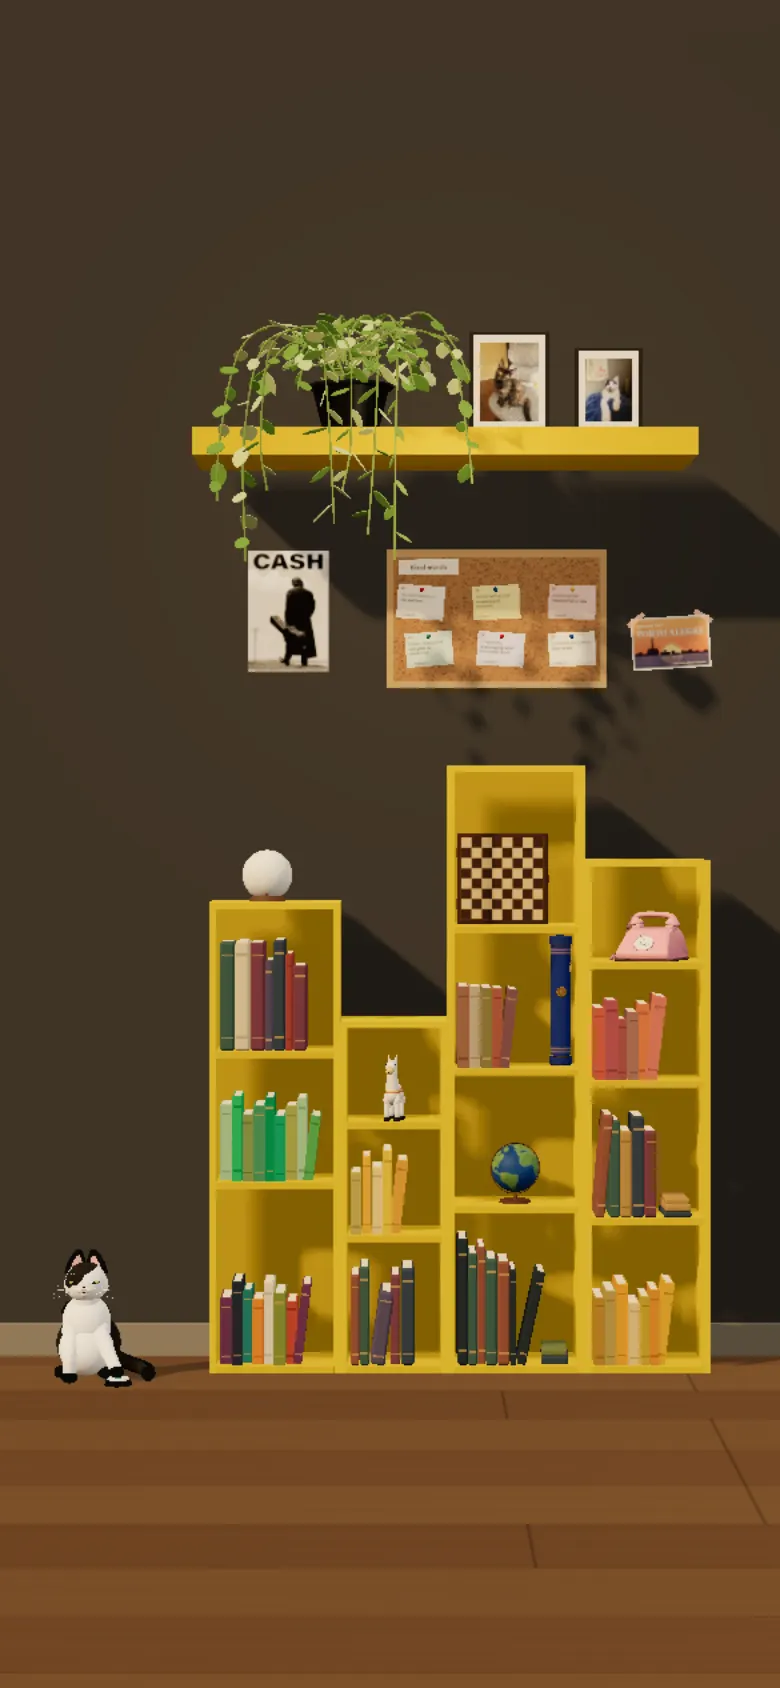
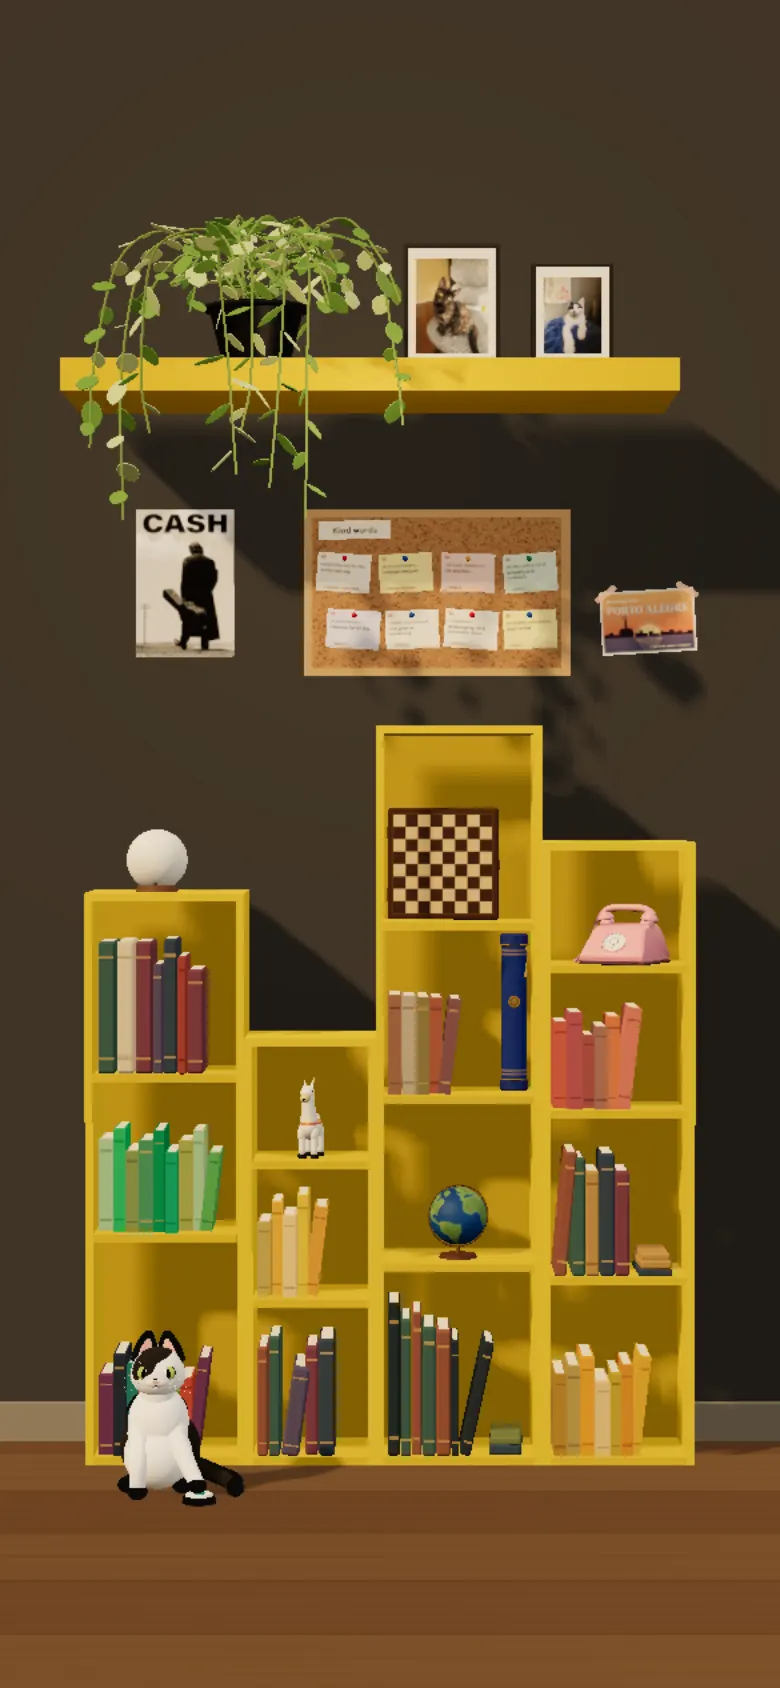
Phones: Zuko sits in front of the bookcase and the room is drawn larger
On portrait screens Zuko moves from beside the bookcase to its bottom-left corner, the wall shelf sits closer above
the bookcase, and the fit leaves room for the title bar and the bottom hint, so the room fills more of the screen
without running under them. Desktop is unchanged.

diff --git a/src/scene/officeScene.ts b/src/scene/officeScene.ts
@@ -38,6 +38,8 @@ const TOUCH_REACH = 24;
 /** The key light's shadow frustum for the desktop layout. Portrait widens it (see wide() in applyView)
  *  while the wall shelf sits above the bookcase, then this is restored the moment desktop returns. */
 const SHADOW_HOME = { left: -3.2, right: 3.8, top: 4.2, bottom: -1.2 };
+/** Portrait: the share of the screen's height the room may fill, between the title bar and the bottom hint. */
+const PORTRAIT_CLEAR_HEIGHT = 0.8;
 /** Desktop camera distance from the wall: close enough that the room fills the window, with its full height in view. */
 const DESK_DIST = 7.5;
 /** Room to leave on each side of the shelf and bookcase on desktop, in scene units. */
@@ -308,6 +310,10 @@ export class OfficeScene {
   private wallHomeBox: THREE.Box3 | null = null;
   /** Zuko's box, world space; folded into the portrait fit too (desktop already shows him fine). */
   private catBox: THREE.Box3 | null = null;
+  private cat: THREE.Object3D | null = null;
+  private catHome = new THREE.Vector3();
+  /** Portrait only: Zuko moves from beside the bookcase to sitting in front of its bottom-left corner. */
+  private catDelta = new THREE.Vector3();
   private plantSway: PlantSway | null = null;
   private zukoLife: ZukoLife | null = null;
   /** Off in desktop. The key light is tuned for the wall shelf's normal height, near the light's own
@@ -671,7 +677,7 @@ export class OfficeScene {
     // meshBox (not THREE.Box3.setFromObject) so each object's own position is folded in correctly.
     this.bookBox = meshBox(model);
     this.wallHomeBox = meshBox(wallShelf).union(meshBox(posters));
-    const wallGap = 0.4; // clearance between the bookcase's top and the relocated wall shelf
+    const wallGap = 0.22; // clearance between the bookcase's top and the relocated wall shelf
     this.wallDelta.set(
       (this.bookBox.min.x + this.bookBox.max.x) / 2 - (this.wallHomeBox.min.x + this.wallHomeBox.max.x) / 2,
       this.bookBox.max.y + wallGap - this.wallHomeBox.min.y,
@@ -785,6 +791,11 @@ export class OfficeScene {
         cat.updateWorldMatrix(true, true);
         catMeshes = collectMeshes(cat);
         this.catBox = meshBox(cat);
+        this.cat = cat;
+        this.catHome.copy(cat.position);
+        // On a phone the room is framed by its width: sitting beside the bookcase, he would widen it and push the
+        // camera back. In front of its first column he keeps the room narrow, so everything is drawn larger.
+        this.catDelta.set(shelfWorld.min.x + 0.42 - targetX, 0, 0.32);
       } catch (e) {
         console.warn("[office-scene] could not place Zuko", e);
         scene.remove(cat);
@@ -1360,6 +1371,7 @@ export class OfficeScene {
         // desktop: the original layout and camera height, untouched by anything portrait does, centred on the room.
         this.wallShelf?.position.copy(this.wallHomeShelf);
         this.posters?.position.copy(this.wallHomePosters);
+        this.cat?.position.copy(this.catHome);
         if (this.wallLight) this.wallLight.intensity = 0;
         if (shadowCam && shadowCam.top !== SHADOW_HOME.top) {
           Object.assign(shadowCam, SHADOW_HOME);
@@ -1381,6 +1393,7 @@ export class OfficeScene {
       // more distance, centred on it.
       this.wallShelf?.position.copy(this.wallHomeShelf).add(this.wallDelta);
       this.posters?.position.copy(this.wallHomePosters).add(this.wallDelta);
+      this.cat?.position.copy(this.catHome).add(this.catDelta);
       if (this.wallLight && this.wallHomeBox) {
         const c = this.wallHomeBox.getCenter(new THREE.Vector3()).add(this.wallDelta);
         this.wallLight.position.set(c.x, c.y, c.z + 0.9);
@@ -1396,13 +1409,14 @@ export class OfficeScene {
       const wallBox = this.wallHomeBox?.clone().translate(this.wallDelta) ?? null;
       let room = this.bookBox ? this.bookBox.clone() : null;
       if (room && wallBox) room.union(wallBox);
-      if (room && this.catBox) room.union(this.catBox);
+      if (room && this.catBox) room.union(this.catBox.clone().translate(this.catDelta));
       const cx = room ? (room.min.x + room.max.x) / 2 : 2.6;
       const cy = room ? (room.min.y + room.max.y) / 2 : 2.2;
       const halfW = room ? (room.max.x - room.min.x) / 2 + 0.3 : 1.6;
-      const halfH = room ? (room.max.y - room.min.y) / 2 + 0.3 : 2.2;
+      const halfH = room ? (room.max.y - room.min.y) / 2 + 0.12 : 2.2;
       const dW = halfW / (Math.tan(fovP / 2) * asp);
-      const dH = halfH / Math.tan(fovP / 2);
+      // The phone's title bar and the hint along the bottom cover about a tenth of the screen each.
+      const dH = halfH / (Math.tan(fovP / 2) * PORTRAIT_CLEAR_HEIGHT);
       const d = Math.min(Math.max(Math.max(dW, dH), 5), 32);
       this.camBase.set(cx, cy + 0.2, d);
       tGoal.set(cx, cy, 0);
